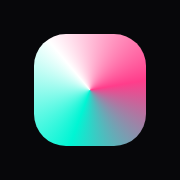
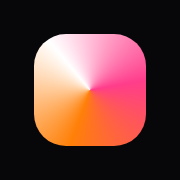
Dance mockup : mise à jour du prototype (OPT-1117)

Changed region(s): [[0.1667, 0.2778, 0.8333, 0.8333]]

diff --git a/s-p7b.html b/s-p7b.html
@@ -46,7 +46,7 @@ html.phoneboard .board { gap: 26px; padding: 6px 30px; }
 .track .seg { position: absolute; top: 9px; height: 4px; border-radius: 2px; background: rgba(255,255,255,.22); }
 .track .seg.on { background: rgba(255,255,255,.6); }
 .track .pin { position: absolute; top: 1px; width: 20px; height: 20px; margin-left: -10px; border-radius: 50%; background: var(--ref); display: grid; place-items: center; box-shadow: 0 0 0 2px #0b0b10; }
-.track .pin svg { width: 11px; height: 11px; fill: none; stroke: #00211C; stroke-width: 2.6; stroke-linecap: round; }
+.track .pin svg { width: 11px; height: 11px; fill: none; stroke: #121418; stroke-width: 2.6; stroke-linecap: round; }
 .track .pin.draw { background: #0b0b10; border: 2px solid var(--ref); }
 .track .pin.draw svg { stroke: var(--ref); }
 .track .ph { position: absolute; top: -3px; bottom: -3px; width: 2px; margin-left: -1px; background: #fff; border-radius: 1px; }
@@ -54,9 +54,9 @@ html.phoneboard .board { gap: 26px; padding: 6px 30px; }
 .ruler .legend8 { margin-top: 15px; }
 
 /* enregistrement en cours */
-.rec { position: absolute; left: 12px; right: 12px; z-index: 30; border-radius: 18px; padding: 10px 13px 11px; background: rgba(0,245,212,.1); border: 1px solid rgba(0,245,212,.4); }
+.rec { position: absolute; left: 12px; right: 12px; z-index: 30; border-radius: 18px; padding: 10px 13px 11px; background: rgba(255,128,8,.1); border: 1px solid rgba(255,128,8,.4); }
 .rec .r { display: flex; align-items: center; gap: 9px; font: 700 12px ui-monospace, Menlo, monospace; color: var(--ref); white-space: nowrap; }
-.rec .r::before { content: ""; width: 9px; height: 9px; border-radius: 50%; background: var(--ref); box-shadow: 0 0 0 4px rgba(0,245,212,.25); flex: none; }
+.rec .r::before { content: ""; width: 9px; height: 9px; border-radius: 50%; background: var(--ref); box-shadow: 0 0 0 4px rgba(255,128,8,.25); flex: none; }
 .rec .wave { flex: 1; display: flex; align-items: center; gap: 2px; height: 22px; overflow: hidden; }
 .rec .wave i { display: block; width: 3px; border-radius: 2px; flex: none; }
 .rec .wave i.past { background: var(--ref); } .rec .wave i.fut { background: rgba(255,255,255,.14); }
@@ -67,9 +67,9 @@ html.phoneboard .board { gap: 26px; padding: 6px 30px; }
 .hold { position: absolute; left: 12px; right: 12px; z-index: 30; display: flex; gap: 10px; }
 .hold .draw { width: 64px; height: 64px; border-radius: 32px; display: grid; place-items: center; flex: none; background: rgba(255,255,255,.1); font: 600 10.5px -apple-system, system-ui, sans-serif; color: #fff; }
 .hold .draw svg { width: 22px; height: 22px; fill: none; stroke: #fff; stroke-width: 1.9; stroke-linecap: round; stroke-linejoin: round; display: block; margin: 0 auto 1px; }
-.hold .mic { flex: 1; height: 64px; border-radius: 32px; background: var(--ref); color: #00211C; display: flex; align-items: center; gap: 12px; padding: 0 18px 0 8px;
-  box-shadow: 0 0 0 7px rgba(0,245,212,.16), 0 0 34px rgba(0,245,212,.45); }
-.hold .mic .ic { width: 48px; height: 48px; border-radius: 50%; background: #00211C; display: grid; place-items: center; flex: none; }
+.hold .mic { flex: 1; height: 64px; border-radius: 32px; background: var(--ref); color: #121418; display: flex; align-items: center; gap: 12px; padding: 0 18px 0 8px;
+  box-shadow: 0 0 0 7px rgba(255,128,8,.16), 0 0 34px rgba(255,128,8,.45); }
+.hold .mic .ic { width: 48px; height: 48px; border-radius: 50%; background: #121418; display: grid; place-items: center; flex: none; }
 .hold .mic .ic svg { width: 24px; height: 24px; fill: none; stroke: var(--ref); stroke-width: 2.1; stroke-linecap: round; }
 .hold .mic b { font: 750 15.5px -apple-system, system-ui, sans-serif; display: block; }
 .hold .mic small { font: 600 11.5px -apple-system, system-ui, sans-serif; opacity: .78; }
@@ -77,10 +77,10 @@ html.phoneboard .board { gap: 26px; padding: 6px 30px; }
 /* écran 2 : relire */
 .items { position: absolute; left: 12px; right: 12px; z-index: 30; }
 .items h5, .acts h5 { font: 650 10.5px ui-monospace, Menlo, monospace; letter-spacing: .1em; text-transform: uppercase; color: var(--t2); margin: 0 4px 6px; display: flex; justify-content: space-between; }
-.it { display: flex; align-items: flex-start; gap: 9px; padding: 8px 10px 8px 8px; border-radius: 16px; background: rgba(0,245,212,.07); margin-bottom: 5px; }
+.it { display: flex; align-items: flex-start; gap: 9px; padding: 8px 10px 8px 8px; border-radius: 16px; background: rgba(255,128,8,.07); margin-bottom: 5px; }
 .it .at { font: 700 11px ui-monospace, Menlo, monospace; color: var(--ref); width: 34px; flex: none; padding-top: 9px; }
 .it .play { width: 30px; height: 30px; border-radius: 50%; background: var(--ref); display: grid; place-items: center; flex: none; }
-.it .play::after { content: ""; border-left: 10px solid #00211C; border-top: 6px solid transparent; border-bottom: 6px solid transparent; margin-left: 3px; }
+.it .play::after { content: ""; border-left: 10px solid #121418; border-top: 6px solid transparent; border-bottom: 6px solid transparent; margin-left: 3px; }
 .it .pen { width: 30px; height: 30px; border-radius: 50%; border: 2px solid var(--ref); display: grid; place-items: center; flex: none; }
 .it .pen svg { width: 14px; height: 14px; fill: none; stroke: var(--ref); stroke-width: 2.2; stroke-linecap: round; stroke-linejoin: round; }
 .it .tx { flex: 1; font: 500 12.5px/1.32 -apple-system, system-ui, sans-serif; color: #fff; min-width: 0; }
@@ -116,8 +116,8 @@ html.phoneboard .board { gap: 26px; padding: 6px 30px; }
       <div class="seg" style="left:30%;width:10.5%"></div><div class="seg" style="left:42%;width:10.5%"></div>
       <div class="seg on" style="left:54%;width:10.5%"></div><div class="seg" style="left:66%;width:10.5%"></div>
       <div class="seg" style="left:78%;width:10.5%"></div><div class="seg" style="left:90%;width:10%"></div>
-      <div class="pin" style="left:23.5%"><svg viewBox="0 0 12 12"><rect x="4.4" y="1.2" width="3.2" height="5.6" rx="1.6" fill="#00211C" stroke="none"/><path d="M2.8 5.6a3.2 3.2 0 006.4 0M6 8.8v1.8"/></svg></div>
-      <div class="pin" style="left:61.8%"><svg viewBox="0 0 12 12"><rect x="4.4" y="1.2" width="3.2" height="5.6" rx="1.6" fill="#00211C" stroke="none"/><path d="M2.8 5.6a3.2 3.2 0 006.4 0M6 8.8v1.8"/></svg></div>
+      <div class="pin" style="left:23.5%"><svg viewBox="0 0 12 12"><rect x="4.4" y="1.2" width="3.2" height="5.6" rx="1.6" fill="#121418" stroke="none"/><path d="M2.8 5.6a3.2 3.2 0 006.4 0M6 8.8v1.8"/></svg></div>
+      <div class="pin" style="left:61.8%"><svg viewBox="0 0 12 12"><rect x="4.4" y="1.2" width="3.2" height="5.6" rx="1.6" fill="#121418" stroke="none"/><path d="M2.8 5.6a3.2 3.2 0 006.4 0M6 8.8v1.8"/></svg></div>
       <div class="ph" style="left:61.8%"></div>
     </div>
   </div>
@@ -145,7 +145,7 @@ html.phoneboard .board { gap: 26px; padding: 6px 30px; }
   <div class="tabbar glass">
     <div class="t"><svg viewBox="0 0 24 24"><path d="M12 3v2M12 19v2M3 12h2M19 12h2"/><circle cx="12" cy="12" r="5"/></svg>Aujourd'hui</div>
     <div class="t" style="position:relative"><svg viewBox="0 0 24 24"><path d="M4 13l2.5-8h11L20 13v6H4z"/><path d="M4 13h5l1 2h4l1-2h5"/></svg>Boîte<span style="position:absolute;top:-4px;right:2px;min-width:16px;height:16px;border-radius:8px;background:#fff;color:#000;font:800 10px -apple-system, system-ui, sans-serif;display:grid;place-items:center;padding:0 4px">3</span></div>
-    <div class="t on"><span style="width:52px;height:52px;margin-top:-30px;border-radius:50%;background:var(--ref);display:grid;place-items:center;box-shadow:0 8px 24px -6px rgba(0,245,212,.6)"><svg viewBox="0 0 24 24" style="stroke:#00211C;width:24px;height:24px"><rect x="9" y="3" width="6" height="11" rx="3"/><path d="M5 11a7 7 0 0014 0M12 18v3"/></svg></span>Corriger</div>
+    <div class="t on"><span style="width:52px;height:52px;margin-top:-30px;border-radius:50%;background:var(--ref);display:grid;place-items:center;box-shadow:0 8px 24px -6px rgba(255,128,8,.6)"><svg viewBox="0 0 24 24" style="stroke:#121418;width:24px;height:24px"><rect x="9" y="3" width="6" height="11" rx="3"/><path d="M5 11a7 7 0 0014 0M12 18v3"/></svg></span>Corriger</div>
     <div class="t"><svg viewBox="0 0 24 24"><circle cx="9" cy="8" r="3.5"/><path d="M2.5 20c.8-3.6 3.300-5.500 6.500-5.500s5.700 1.900 6.500 5.500"/><path d="M16 4.500a3.500 3.500 0 010 7M18 14.800c1.900.7 3.100 2.400 3.500 5.200"/></svg>Élèves</div>
     <div class="t"><svg viewBox="0 0 24 24"><path d="M4 4h4v16H4zM10 4h4v16h-4z"/><path d="M16 5l3.500-1 2.500 15.500-3.500 1z"/></svg>Mon cours</div>
   </div>

diff --git a/s-p7a.html b/s-p7a.html
@@ -46,7 +46,7 @@ html.phoneboard .board { gap: 26px; padding: 6px 30px; }
 .track .seg { position: absolute; top: 9px; height: 4px; border-radius: 2px; background: rgba(255,255,255,.22); }
 .track .seg.on { background: rgba(255,255,255,.6); }
 .track .pin { position: absolute; top: 1px; width: 20px; height: 20px; margin-left: -10px; border-radius: 50%; background: var(--ref); display: grid; place-items: center; box-shadow: 0 0 0 2px #0b0b10; }
-.track .pin svg { width: 11px; height: 11px; fill: none; stroke: #00211C; stroke-width: 2.6; stroke-linecap: round; }
+.track .pin svg { width: 11px; height: 11px; fill: none; stroke: #121418; stroke-width: 2.6; stroke-linecap: round; }
 .track .pin.draw { background: #0b0b10; border: 2px solid var(--ref); }
 .track .pin.draw svg { stroke: var(--ref); }
 .track .ph { position: absolute; top: -3px; bottom: -3px; width: 2px; margin-left: -1px; background: #fff; border-radius: 1px; }
@@ -54,9 +54,9 @@ html.phoneboard .board { gap: 26px; padding: 6px 30px; }
 .ruler .legend8 { margin-top: 15px; }
 
 /* enregistrement en cours */
-.rec { position: absolute; left: 12px; right: 12px; z-index: 30; border-radius: 18px; padding: 10px 13px 11px; background: rgba(0,245,212,.1); border: 1px solid rgba(0,245,212,.4); }
+.rec { position: absolute; left: 12px; right: 12px; z-index: 30; border-radius: 18px; padding: 10px 13px 11px; background: rgba(255,128,8,.1); border: 1px solid rgba(255,128,8,.4); }
 .rec .r { display: flex; align-items: center; gap: 9px; font: 700 12px ui-monospace, Menlo, monospace; color: var(--ref); white-space: nowrap; }
-.rec .r::before { content: ""; width: 9px; height: 9px; border-radius: 50%; background: var(--ref); box-shadow: 0 0 0 4px rgba(0,245,212,.25); flex: none; }
+.rec .r::before { content: ""; width: 9px; height: 9px; border-radius: 50%; background: var(--ref); box-shadow: 0 0 0 4px rgba(255,128,8,.25); flex: none; }
 .rec .wave { flex: 1; display: flex; align-items: center; gap: 2px; height: 22px; overflow: hidden; }
 .rec .wave i { display: block; width: 3px; border-radius: 2px; flex: none; }
 .rec .wave i.past { background: var(--ref); } .rec .wave i.fut { background: rgba(255,255,255,.14); }
@@ -67,9 +67,9 @@ html.phoneboard .board { gap: 26px; padding: 6px 30px; }
 .hold { position: absolute; left: 12px; right: 12px; z-index: 30; display: flex; gap: 10px; }
 .hold .draw { width: 64px; height: 64px; border-radius: 32px; display: grid; place-items: center; flex: none; background: rgba(255,255,255,.1); font: 600 10.5px -apple-system, system-ui, sans-serif; color: #fff; }
 .hold .draw svg { width: 22px; height: 22px; fill: none; stroke: #fff; stroke-width: 1.9; stroke-linecap: round; stroke-linejoin: round; display: block; margin: 0 auto 1px; }
-.hold .mic { flex: 1; height: 64px; border-radius: 32px; background: var(--ref); color: #00211C; display: flex; align-items: center; gap: 12px; padding: 0 18px 0 8px;
-  box-shadow: 0 0 0 7px rgba(0,245,212,.16), 0 0 34px rgba(0,245,212,.45); }
-.hold .mic .ic { width: 48px; height: 48px; border-radius: 50%; background: #00211C; display: grid; place-items: center; flex: none; }
+.hold .mic { flex: 1; height: 64px; border-radius: 32px; background: var(--ref); color: #121418; display: flex; align-items: center; gap: 12px; padding: 0 18px 0 8px;
+  box-shadow: 0 0 0 7px rgba(255,128,8,.16), 0 0 34px rgba(255,128,8,.45); }
+.hold .mic .ic { width: 48px; height: 48px; border-radius: 50%; background: #121418; display: grid; place-items: center; flex: none; }
 .hold .mic .ic svg { width: 24px; height: 24px; fill: none; stroke: var(--ref); stroke-width: 2.1; stroke-linecap: round; }
 .hold .mic b { font: 750 15.5px -apple-system, system-ui, sans-serif; display: block; }
 .hold .mic small { font: 600 11.5px -apple-system, system-ui, sans-serif; opacity: .78; }
@@ -77,10 +77,10 @@ html.phoneboard .board { gap: 26px; padding: 6px 30px; }
 /* écran 2 : relire */
 .items { position: absolute; left: 12px; right: 12px; z-index: 30; }
 .items h5, .acts h5 { font: 650 10.5px ui-monospace, Menlo, monospace; letter-spacing: .1em; text-transform: uppercase; color: var(--t2); margin: 0 4px 6px; display: flex; justify-content: space-between; }
-.it { display: flex; align-items: flex-start; gap: 9px; padding: 8px 10px 8px 8px; border-radius: 16px; background: rgba(0,245,212,.07); margin-bottom: 5px; }
+.it { display: flex; align-items: flex-start; gap: 9px; padding: 8px 10px 8px 8px; border-radius: 16px; background: rgba(255,128,8,.07); margin-bottom: 5px; }
 .it .at { font: 700 11px ui-monospace, Menlo, monospace; color: var(--ref); width: 34px; flex: none; padding-top: 9px; }
 .it .play { width: 30px; height: 30px; border-radius: 50%; background: var(--ref); display: grid; place-items: center; flex: none; }
-.it .play::after { content: ""; border-left: 10px solid #00211C; border-top: 6px solid transparent; border-bottom: 6px solid transparent; margin-left: 3px; }
+.it .play::after { content: ""; border-left: 10px solid #121418; border-top: 6px solid transparent; border-bottom: 6px solid transparent; margin-left: 3px; }
 .it .pen { width: 30px; height: 30px; border-radius: 50%; border: 2px solid var(--ref); display: grid; place-items: center; flex: none; }
 .it .pen svg { width: 14px; height: 14px; fill: none; stroke: var(--ref); stroke-width: 2.2; stroke-linecap: round; stroke-linejoin: round; }
 .it .tx { flex: 1; font: 500 12.5px/1.32 -apple-system, system-ui, sans-serif; color: #fff; min-width: 0; }
@@ -104,9 +104,9 @@ html.phoneboard .board { gap: 26px; padding: 6px 30px; }
 
   <!-- dessin de Mike, posé à 0:08 -->
   <svg class="ink" viewBox="0 0 390 844">
-    <ellipse cx="314" cy="290" rx="26" ry="24" fill="none" stroke="#00F5D4" stroke-width="3.2"/>
-    <path d="M288 274 C 270 250, 272 216, 292 196" fill="none" stroke="#00F5D4" stroke-width="3.2" stroke-linecap="round"/>
-    <path d="M280 200 L293 195 L295 209" fill="none" stroke="#00F5D4" stroke-width="3.2" stroke-linecap="round" stroke-linejoin="round"/>
+    <ellipse cx="314" cy="290" rx="26" ry="24" fill="none" stroke="#FF8008" stroke-width="3.2"/>
+    <path d="M288 274 C 270 250, 272 216, 292 196" fill="none" stroke="#FF8008" stroke-width="3.2" stroke-linecap="round"/>
+    <path d="M280 200 L293 195 L295 209" fill="none" stroke="#FF8008" stroke-width="3.2" stroke-linecap="round" stroke-linejoin="round"/>
   </svg>
   <div class="inklbl" style="left:190px; top:176px">plus haut !</div>
 
@@ -147,7 +147,7 @@ html.phoneboard .board { gap: 26px; padding: 6px 30px; }
   <div class="tabbar glass">
     <div class="t"><svg viewBox="0 0 24 24"><path d="M12 3v2M12 19v2M3 12h2M19 12h2"/><circle cx="12" cy="12" r="5"/></svg>Aujourd'hui</div>
     <div class="t" style="position:relative"><svg viewBox="0 0 24 24"><path d="M4 13l2.5-8h11L20 13v6H4z"/><path d="M4 13h5l1 2h4l1-2h5"/></svg>Boîte<span style="position:absolute;top:-4px;right:2px;min-width:16px;height:16px;border-radius:8px;background:#fff;color:#000;font:800 10px -apple-system, system-ui, sans-serif;display:grid;place-items:center;padding:0 4px">3</span></div>
-    <div class="t on"><span style="width:52px;height:52px;margin-top:-30px;border-radius:50%;background:var(--ref);display:grid;place-items:center;box-shadow:0 8px 24px -6px rgba(0,245,212,.6)"><svg viewBox="0 0 24 24" style="stroke:#00211C;width:24px;height:24px"><rect x="9" y="3" width="6" height="11" rx="3"/><path d="M5 11a7 7 0 0014 0M12 18v3"/></svg></span>Corriger</div>
+    <div class="t on"><span style="width:52px;height:52px;margin-top:-30px;border-radius:50%;background:var(--ref);display:grid;place-items:center;box-shadow:0 8px 24px -6px rgba(255,128,8,.6)"><svg viewBox="0 0 24 24" style="stroke:#121418;width:24px;height:24px"><rect x="9" y="3" width="6" height="11" rx="3"/><path d="M5 11a7 7 0 0014 0M12 18v3"/></svg></span>Corriger</div>
     <div class="t"><svg viewBox="0 0 24 24"><circle cx="9" cy="8" r="3.5"/><path d="M2.5 20c.8-3.6 3.300-5.500 6.500-5.500s5.700 1.900 6.500 5.500"/><path d="M16 4.500a3.500 3.500 0 010 7M18 14.800c1.900.7 3.100 2.400 3.500 5.200"/></svg>Élèves</div>
     <div class="t"><svg viewBox="0 0 24 24"><path d="M4 4h4v16H4zM10 4h4v16h-4z"/><path d="M16 5l3.500-1 2.500 15.500-3.500 1z"/></svg>Mon cours</div>
   </div>

diff --git a/dance.css b/dance.css
@@ -1,7 +1,7 @@
 /* ============================================================
    « Dance mockup » — système de design du parcours danse (OPT-1117 v4)
    Règles (voir BIBLE.md) :
-   1. Cyan = la prof (vidéo, voix, retours). Rose = l'élève (sa vidéo, son corps). Rien d'autre.
+   1. Orange du logo = le prof (vidéo, voix, retours). Rose = l'élève (sa vidéo, son corps). Rien d'autre.
    2. Action principale = blanc. Un état = une forme + un libellé (.state), jamais la couleur seule.
    3. La voix d'abord : un retour est un vocal posé sur un moment de la vidéo.
    4. Aucune IA en V1 : seulement la transcription et les résumés, marqués comme tels.
@@ -16,8 +16,8 @@
   --t1: #F5F5F7;
   --t2: #A1A1AA;
   --t3: #63636E;
-  --ref: #00F5D4;         /* le prof, la référence */
-  --ref-a: rgba(0,245,212,.16);
+  --ref: #FF8008;         /* le prof, la référence */
+  --ref-a: rgba(255,128,8,.16);
   --me: #FF3D8B;          /* moi, l'élève */
   --me-a: rgba(255,61,139,.16);
   --both: #FFFFFF;        /* accord */
@@ -62,7 +62,7 @@ html.deskboard .notes { max-width: 380px; }
 .notes .num { font: 600 13px ui-monospace, Menlo, monospace, Menlo, monospace; letter-spacing: .12em; color: #847D93; text-transform: uppercase; }
 .notes .num .lane { display: inline-block; padding: 3px 8px; border-radius: 6px; margin-right: 8px; color: #fff; letter-spacing: .08em; }
 .notes .num .lane.b2c { background: var(--me); }
-.notes .num .lane.b2b { background: #0A8F7E; }
+.notes .num .lane.b2b { background: #A5570E; }
 .notes h1 { font: 700 44px/1.02 "Avenir Next", -apple-system, system-ui, sans-serif, sans-serif; letter-spacing: -.02em; margin: 10px 0 8px; }
 html.deskboard .notes h1 { font-size: 36px; }
 .notes .screenname { font: 500 16.5px/1.4 -apple-system, system-ui, sans-serif; color: #5B5566; margin-bottom: 18px; }
@@ -96,7 +96,7 @@ html.deskboard .notes li { font-size: 14px; }
 .shot.mirror .art { transform: scaleX(-1); }
 .shot .veil { position: absolute; inset: 0; pointer-events: none; }
 .bone { fill: none; stroke-linecap: round; stroke-linejoin: round; }
-.ref-bone { stroke: var(--ref); stroke-width: 9; filter: drop-shadow(0 0 10px rgba(0,245,212,.7)); }
+.ref-bone { stroke: var(--ref); stroke-width: 9; filter: drop-shadow(0 0 10px rgba(255,128,8,.7)); }
 .me-bone { stroke: var(--me); stroke-width: 9; filter: drop-shadow(0 0 10px rgba(255,61,139,.7)); }
 .ghost-bone { stroke: var(--ref); stroke-width: 26; opacity: .35; filter: blur(2px); }
 .ai-mark { fill: none; stroke: var(--ai); stroke-width: 6; stroke-dasharray: 14 12; }
@@ -126,16 +126,16 @@ html.deskboard .notes li { font-size: 14px; }
 /* Boutons */
 .btn { display: inline-flex; align-items: center; justify-content: center; gap: 8px; height: 50px; padding: 0 22px; border-radius: 99px; font: 700 16px -apple-system, system-ui, sans-serif; border: 0; }
 .btn.primary { background: #fff; color: #000; }
-.btn.ref { background: var(--ref); color: #00211C; }
+.btn.ref { background: var(--ref); color: #121418; }
 .btn.me { background: var(--me); color: #fff; }
 .btn.ghost { background: rgba(255,255,255,.1); color: #fff; }
 
 /* Note vocale */
 .voice { display: flex; align-items: center; gap: 10px; padding: 9px 12px 9px 9px; border-radius: 22px; }
 .voice .play { width: 34px; height: 34px; border-radius: 50%; background: var(--ref); display: grid; place-items: center; flex: none; }
-.voice .play::after { content: ""; border-left: 11px solid #00211C; border-top: 7px solid transparent; border-bottom: 7px solid transparent; margin-left: 3px; }
+.voice .play::after { content: ""; border-left: 11px solid #121418; border-top: 7px solid transparent; border-bottom: 7px solid transparent; margin-left: 3px; }
 .voice .wave { flex: 1; display: flex; align-items: center; gap: 2px; height: 28px; }
-.voice .wave i { display: block; width: 3px; border-radius: 2px; background: rgba(0,245,212,.9); }
+.voice .wave i { display: block; width: 3px; border-radius: 2px; background: rgba(255,128,8,.9); }
 .voice .wave i.past { background: var(--ref); } .voice .wave i.fut { background: rgba(255,255,255,.3); }
 .voice .dur { font: 600 12px ui-monospace, Menlo, monospace; color: var(--t2); }
 .avatar { border-radius: 50%; background-size: cover; background-position: center; flex: none; }
@@ -161,7 +161,7 @@ html.deskboard .notes li { font-size: 14px; }
 .side .it { display: flex; align-items: center; gap: 10px; height: 32px; padding: 0 10px; border-radius: 8px; font: 550 13px -apple-system, system-ui, sans-serif; color: var(--t2); }
 .side .it.on { background: rgba(255,255,255,.07); color: #fff; }
 .side .it .k { margin-left: auto; font: 600 10.5px ui-monospace, Menlo, monospace; color: var(--t3); }
-.side .it .n { margin-left: auto; font: 700 11px ui-monospace, Menlo, monospace; color: #00211C; background: var(--ref); padding: 1px 6px; border-radius: 6px; }
+.side .it .n { margin-left: auto; font: 700 11px ui-monospace, Menlo, monospace; color: #121418; background: var(--ref); padding: 1px 6px; border-radius: 6px; }
 .side .sec { font: 650 10.5px ui-monospace, Menlo, monospace; letter-spacing: .1em; color: var(--t3); text-transform: uppercase; padding: 16px 10px 6px; }
 .kbd { display: inline-grid; place-items: center; min-width: 20px; height: 20px; padding: 0 5px; border-radius: 5px; font: 650 11px ui-monospace, Menlo, monospace; color: var(--t2); background: rgba(255,255,255,.07); border: 1px solid rgba(255,255,255,.1); }
 

diff --git a/lotb.css b/lotb.css
@@ -14,7 +14,7 @@ html.duo .notes .flow { font-size: 12px; margin-top: 8px; }
 .top small { font: 500 13px -apple-system, system-ui, sans-serif; color: var(--t2); }
 .top .end { margin-left: auto; }
 .top .avatar { width: 32px; height: 32px; font-size: 11px; }
-.av-ref { background: var(--ref); color: #00211C; }
+.av-ref { background: var(--ref); color: #121418; }
 
 .blk { position: absolute; left: 14px; right: 14px; }
 .h { font: 800 27px/1.12 -apple-system, system-ui, sans-serif; letter-spacing: -.02em; }
@@ -47,7 +47,7 @@ html.duo .notes .flow { font-size: 12px; margin-top: 8px; }
 .th .art { left: -100px; top: -4px; width: 260px; height: 173px; }
 .th .tg { position: absolute; left: 4px; bottom: 4px; font: 800 8.5px ui-monospace, Menlo, monospace; padding: 2px 4px; border-radius: 4px; z-index: 3; }
 .tg.me { background: var(--me); color: #fff; }
-.tg.ref { background: var(--ref); color: #00211C; }
+.tg.ref { background: var(--ref); color: #121418; }
 .th.me { box-shadow: inset 0 0 0 2px var(--me); }
 .th.ref { box-shadow: inset 0 0 0 2px var(--ref); }
 
@@ -65,13 +65,13 @@ html.duo .notes .flow { font-size: 12px; margin-top: 8px; }
 .edge { position: absolute; top: 104px; height: 290px; width: 3px; z-index: 6; }
 .edge.l { left: 0; background: var(--ref); } .edge.r { right: 0; background: var(--me); }
 .tag { position: absolute; top: 114px; z-index: 10; font: 800 11px ui-monospace, Menlo, monospace; letter-spacing: .06em; padding: 4px 8px; border-radius: 7px; }
-.tag.l { left: 10px; background: var(--ref); color: #00211C; }
+.tag.l { left: 10px; background: var(--ref); color: #121418; }
 .tag.r { right: 10px; background: var(--me); color: #fff; }
 
 /* Micro tenu (prof) */
 .hold { position: absolute; left: 0; right: 0; top: 664px; display: flex; flex-direction: column; align-items: center; gap: 8px; }
-.hold .mic { width: 84px; height: 84px; border-radius: 50%; background: var(--ref); display: grid; place-items: center; box-shadow: 0 0 0 10px rgba(0,245,212,.14), 0 0 0 22px rgba(0,245,212,.06); }
-.hold .mic svg { width: 34px; height: 34px; fill: none; stroke: #00211C; stroke-width: 2; stroke-linecap: round; }
+.hold .mic { width: 84px; height: 84px; border-radius: 50%; background: var(--ref); display: grid; place-items: center; box-shadow: 0 0 0 10px rgba(255,128,8,.14), 0 0 0 22px rgba(255,128,8,.06); }
+.hold .mic svg { width: 34px; height: 34px; fill: none; stroke: #121418; stroke-width: 2; stroke-linecap: round; }
 .hold span { font: 600 12.5px -apple-system, system-ui, sans-serif; color: var(--t2); }
 .bubble { border-radius: 18px; background: var(--s1); border: 1px solid var(--line); padding: 10px 12px; }
 .bubble .who { font: 650 11.5px -apple-system, system-ui, sans-serif; color: var(--t2); display: flex; gap: 8px; align-items: center; margin-bottom: 6px; }

diff --git a/s-e8.html b/s-e8.html
@@ -35,7 +35,7 @@
 
 .body { position: absolute; left: 0; right: 0; top: 386px; bottom: 0; padding: 0 12px; }
 .from { display: flex; align-items: center; gap: 9px; padding: 0 4px; }
-.from .avatar { width: 32px; height: 32px; background: var(--ref); color: #00211C; font-size: 11px; }
+.from .avatar { width: 32px; height: 32px; background: var(--ref); color: #121418; font-size: 11px; }
 .from .who { font: 700 14px -apple-system, system-ui, sans-serif; line-height: 1.15; }
 .from .who small { display: block; font: 500 11px -apple-system, system-ui, sans-serif; color: var(--t2); }
 .from .state { margin-left: auto; }
@@ -52,7 +52,7 @@
 .pvid .shot .art { left: -66px; top: -16px; width: 190px; height: 127px; }
 .pvid .shot .play { position: absolute; inset: 0; display: grid; place-items: center; z-index: 3; }
 .pvid .shot .play::after { content: ""; border-left: 11px solid #fff; border-top: 7px solid transparent; border-bottom: 7px solid transparent; margin-left: 3px; filter: drop-shadow(0 1px 3px rgba(0,0,0,.6)); }
-.pvid .shot .nora { position: absolute; left: 3px; top: 3px; z-index: 3; font: 800 8px ui-monospace, Menlo, monospace; letter-spacing: .06em; color: #00211C; background: var(--ref); padding: 1px 4px; border-radius: 4px; }
+.pvid .shot .nora { position: absolute; left: 3px; top: 3px; z-index: 3; font: 800 8px ui-monospace, Menlo, monospace; letter-spacing: .06em; color: #121418; background: var(--ref); padding: 1px 4px; border-radius: 4px; }
 .pvid .m { flex: 1; min-width: 0; }
 .pvid .m b { display: block; font: 650 13px -apple-system, system-ui, sans-serif; }
 .pvid .m span { font: 500 11px -apple-system, system-ui, sans-serif; color: var(--t2); }
@@ -76,9 +76,9 @@
 
   <!-- le dessin de Mike sur l'image à 0:08 -->
   <svg class="draw" viewBox="0 0 390 276">
-    <path d="M78 168 C 74 144, 104 136, 126 148 C 144 158, 140 186, 118 194 C 96 202, 72 192, 74 172" fill="none" stroke="#00F5D4" stroke-width="3.5" stroke-linecap="round"/>
-    <path d="M100 140 C 103 128, 103 118, 100 110" fill="none" stroke="#00F5D4" stroke-width="3.5" stroke-linecap="round"/>
-    <path d="M91 119 L 100 108 L 109 119" fill="none" stroke="#00F5D4" stroke-width="3.5" stroke-linecap="round" stroke-linejoin="round"/>
+    <path d="M78 168 C 74 144, 104 136, 126 148 C 144 158, 140 186, 118 194 C 96 202, 72 192, 74 172" fill="none" stroke="#FF8008" stroke-width="3.5" stroke-linecap="round"/>
+    <path d="M100 140 C 103 128, 103 118, 100 110" fill="none" stroke="#FF8008" stroke-width="3.5" stroke-linecap="round"/>
+    <path d="M91 119 L 100 108 L 109 119" fill="none" stroke="#FF8008" stroke-width="3.5" stroke-linecap="round" stroke-linejoin="round"/>
   </svg>
   <div class="hand" style="left:112px; top:100px">plus haut !</div>
 

diff --git a/s-p3.html b/s-p3.html
@@ -4,7 +4,7 @@
 .hd { position: absolute; top: 62px; left: 22px; right: 18px; display: flex; align-items: flex-start; }
 .hd .d { font: 650 11.5px ui-monospace, Menlo, monospace; letter-spacing: .1em; color: var(--t2); text-transform: uppercase; }
 .hd h2 { font: 800 31px/1.05 -apple-system, system-ui, sans-serif; letter-spacing: -.03em; margin-top: 5px; }
-.hd .avatar { margin-left: auto; width: 40px; height: 40px; font-size: 13px; background: var(--ref); color: #00211C; margin-top: 4px; }
+.hd .avatar { margin-left: auto; width: 40px; height: 40px; font-size: 13px; background: var(--ref); color: #121418; margin-top: 4px; }
 .empty { position: absolute; top: 150px; left: 14px; right: 14px; border-radius: 28px; background: var(--s1); border: 1px solid var(--line); padding: 22px 20px 20px; }
 .empty .ic { width: 52px; height: 52px; border-radius: 16px; background: rgba(255,255,255,.06); display: grid; place-items: center; }
 .empty .ic svg { width: 28px; height: 28px; fill: none; stroke: var(--t2); stroke-width: 1.7; stroke-linejoin: round; stroke-linecap: round; }
@@ -56,7 +56,7 @@
   <div class="tabbar glass">
     <div class="t on"><span class="pill"><svg viewBox="0 0 24 24"><path d="M12 3v2M12 19v2M3 12h2M19 12h2"/><circle cx="12" cy="12" r="5"/></svg></span>Aujourd'hui</div>
     <div class="t" style="position:relative"><svg viewBox="0 0 24 24"><path d="M4 13l2.5-8h11L20 13v6H4z"/><path d="M4 13h5l1 2h4l1-2h5"/></svg>Boîte</div>
-    <div class="t"><span style="width:52px;height:52px;margin-top:-30px;border-radius:50%;background:var(--ref);display:grid;place-items:center;box-shadow:0 8px 24px -6px rgba(0,245,212,.6)"><svg viewBox="0 0 24 24" style="stroke:#00211C;width:24px;height:24px"><rect x="9" y="3" width="6" height="11" rx="3"/><path d="M5 11a7 7 0 0014 0M12 18v3"/></svg></span>Corriger</div>
+    <div class="t"><span style="width:52px;height:52px;margin-top:-30px;border-radius:50%;background:var(--ref);display:grid;place-items:center;box-shadow:0 8px 24px -6px rgba(255,128,8,.6)"><svg viewBox="0 0 24 24" style="stroke:#121418;width:24px;height:24px"><rect x="9" y="3" width="6" height="11" rx="3"/><path d="M5 11a7 7 0 0014 0M12 18v3"/></svg></span>Corriger</div>
     <div class="t"><svg viewBox="0 0 24 24"><circle cx="9" cy="8" r="3.5"/><path d="M2.5 20c.8-3.6 3.300-5.500 6.500-5.500s5.700 1.900 6.500 5.500"/><path d="M16 4.500a3.500 3.500 0 010 7M18 14.800c1.900.7 3.100 2.400 3.500 5.200"/></svg>Élèves</div>
     <div class="t"><svg viewBox="0 0 24 24"><path d="M4 4h4v16H4zM10 4h4v16h-4z"/><path d="M16 5l3.500-1 2.500 15.500-3.500 1z"/></svg>Mon cours</div>
   </div>

diff --git a/s-p6.html b/s-p6.html
@@ -6,7 +6,7 @@
 .hd h2 { font: 800 31px/1.05 -apple-system, system-ui, sans-serif; letter-spacing: -.03em; margin-top: 5px; }
 .hd p { white-space: nowrap; font: 500 14px/1.4 -apple-system, system-ui, sans-serif; color: var(--t2); margin-top: 6px; }
 .hd p b { color: var(--t1); font-weight: 650; }
-.hd .avatar { margin-left: auto; width: 40px; height: 40px; font-size: 13px; background: var(--ref); color: #00211C; margin-top: 4px; }
+.hd .avatar { margin-left: auto; width: 40px; height: 40px; font-size: 13px; background: var(--ref); color: #121418; margin-top: 4px; }
 .cd { position: absolute; left: 12px; right: 12px; border-radius: 26px; background: var(--s1); border: 1px solid var(--line); padding: 14px; }
 .who { display: flex; align-items: center; gap: 9px; }
 .who .avatar { width: 30px; height: 30px; font-size: 11px; }
@@ -73,7 +73,7 @@
   <div class="tabbar glass">
     <div class="t on"><span class="pill"><svg viewBox="0 0 24 24"><path d="M12 3v2M12 19v2M3 12h2M19 12h2"/><circle cx="12" cy="12" r="5"/></svg></span>Aujourd'hui</div>
     <div class="t" style="position:relative"><svg viewBox="0 0 24 24"><path d="M4 13l2.5-8h11L20 13v6H4z"/><path d="M4 13h5l1 2h4l1-2h5"/></svg>Boîte<span style="position:absolute;top:-4px;right:2px;min-width:16px;height:16px;border-radius:8px;background:#fff;color:#000;font:800 10px -apple-system, system-ui, sans-serif;display:grid;place-items:center;padding:0 4px">3</span></div>
-    <div class="t"><span style="width:52px;height:52px;margin-top:-30px;border-radius:50%;background:var(--ref);display:grid;place-items:center;box-shadow:0 8px 24px -6px rgba(0,245,212,.6)"><svg viewBox="0 0 24 24" style="stroke:#00211C;width:24px;height:24px"><rect x="9" y="3" width="6" height="11" rx="3"/><path d="M5 11a7 7 0 0014 0M12 18v3"/></svg></span>Corriger</div>
+    <div class="t"><span style="width:52px;height:52px;margin-top:-30px;border-radius:50%;background:var(--ref);display:grid;place-items:center;box-shadow:0 8px 24px -6px rgba(255,128,8,.6)"><svg viewBox="0 0 24 24" style="stroke:#121418;width:24px;height:24px"><rect x="9" y="3" width="6" height="11" rx="3"/><path d="M5 11a7 7 0 0014 0M12 18v3"/></svg></span>Corriger</div>
     <div class="t"><svg viewBox="0 0 24 24"><circle cx="9" cy="8" r="3.5"/><path d="M2.5 20c.8-3.6 3.300-5.500 6.500-5.500s5.700 1.900 6.500 5.500"/><path d="M16 4.500a3.500 3.500 0 010 7M18 14.800c1.900.7 3.100 2.400 3.500 5.200"/></svg>Élèves</div>
     <div class="t"><svg viewBox="0 0 24 24"><path d="M4 4h4v16H4zM10 4h4v16h-4z"/><path d="M16 5l3.500-1 2.500 15.500-3.500 1z"/></svg>Mon cours</div>
   </div>

diff --git a/s-e4.html b/s-e4.html
@@ -10,15 +10,15 @@
 .topbar .ttl { flex: 1; min-width: 0; height: 40px; border-radius: 20px; display: flex; align-items: center; gap: 8px; padding: 0 14px; font: 700 14.5px -apple-system, system-ui, sans-serif; white-space: nowrap; }
 .topbar .ttl small { font: 500 12px -apple-system, system-ui, sans-serif; color: rgba(255,255,255,.7); }
 .who { position: absolute; top: 110px; left: 16px; right: 70px; display: flex; align-items: center; gap: 9px; padding: 6px 12px 6px 6px; border-radius: 20px; z-index: 20; }
-.who .avatar { width: 30px; height: 30px; background: var(--ref); color: #00211C; font-size: 10.5px; }
+.who .avatar { width: 30px; height: 30px; background: var(--ref); color: #121418; font-size: 10.5px; }
 .who b { display: block; font: 700 12.5px -apple-system, system-ui, sans-serif; }
 .who .s { display: block; font: 500 11px -apple-system, system-ui, sans-serif; color: rgba(255,255,255,.78); margin-top: 1px; }
 .who .code { font-size: 10px; }
-.nl { position: absolute; top: 116px; right: 16px; z-index: 20; font: 800 10.5px ui-monospace, Menlo, monospace; letter-spacing: .08em; color: #00211C; background: var(--ref); padding: 4px 7px; border-radius: 6px; }
+.nl { position: absolute; top: 116px; right: 16px; z-index: 20; font: 800 10.5px ui-monospace, Menlo, monospace; letter-spacing: .08em; color: #121418; background: var(--ref); padding: 4px 7px; border-radius: 6px; }
 .tip { position: absolute; left: 150px; top: 452px; width: 214px; padding: 10px 12px; border-radius: 18px; z-index: 20; font: 500 13px/1.35 -apple-system, system-ui, sans-serif; }
 .tip .at { display: flex; align-items: center; gap: 6px; font: 700 11px ui-monospace, Menlo, monospace; color: var(--ref); margin-bottom: 4px; }
 .tip .at i { width: 16px; height: 16px; border-radius: 50%; background: var(--ref); display: grid; place-items: center; }
-.tip .at i::after { content: ""; border-left: 6px solid #00211C; border-top: 4px solid transparent; border-bottom: 4px solid transparent; margin-left: 2px; }
+.tip .at i::after { content: ""; border-left: 6px solid #121418; border-top: 4px solid transparent; border-bottom: 4px solid transparent; margin-left: 2px; }
 .tip::before { content: ""; position: absolute; left: -36px; top: 20px; width: 36px; height: 2px; background: var(--ref); }
 .panel { position: absolute; left: 12px; right: 12px; bottom: 22px; border-radius: 30px; padding: 13px 14px 14px; z-index: 30; }
 .panel .row1 { display: flex; justify-content: space-between; align-items: center; font: 650 12px -apple-system, system-ui, sans-serif; color: rgba(255,255,255,.78); }

diff --git a/s-e1.html b/s-e1.html
@@ -10,12 +10,12 @@
 .brandbar .mute { width: 34px; height: 34px; border-radius: 50%; display: grid; place-items: center; }
 .brandbar .mute svg { width: 16px; height: 16px; fill: none; stroke: #fff; stroke-width: 1.8; stroke-linecap: round; stroke-linejoin: round; }
 .vlabel { position: absolute; top: 312px; left: 22px; z-index: 20; display: flex; align-items: center; gap: 8px; }
-.vlabel .tag { height: 24px; padding: 0 9px; border-radius: 7px; background: var(--ref); color: #00211C; font: 800 11px ui-monospace, Menlo, monospace; letter-spacing: .1em; display: grid; place-items: center; }
+.vlabel .tag { height: 24px; padding: 0 9px; border-radius: 7px; background: var(--ref); color: #121418; font: 800 11px ui-monospace, Menlo, monospace; letter-spacing: .1em; display: grid; place-items: center; }
 .vlabel span { font: 600 12px -apple-system, system-ui, sans-serif; color: rgba(255,255,255,.85); text-shadow: 0 1px 8px rgba(0,0,0,.6); }
 .vprog { position: absolute; top: 346px; left: 22px; right: 22px; height: 3px; border-radius: 2px; background: rgba(255,255,255,.18); z-index: 20; }
 .vprog i { display: block; width: 38%; height: 100%; border-radius: 2px; background: var(--ref); }
 .inv { position: absolute; top: 372px; left: 22px; right: 22px; z-index: 20; display: flex; align-items: center; gap: 11px; }
-.inv .avatar { width: 40px; height: 40px; font-size: 12.5px; background: var(--ref); color: #00211C; }
+.inv .avatar { width: 40px; height: 40px; font-size: 12.5px; background: var(--ref); color: #121418; }
 .inv .t { font: 500 12.5px/1.3 -apple-system, system-ui, sans-serif; color: var(--t2); }
 .inv .t b { display: block; color: #fff; font: 700 15px -apple-system, system-ui, sans-serif; margin-bottom: 1px; }
 h2.title { position: absolute; top: 424px; left: 22px; right: 22px; z-index: 20; font: 800 38px/1.02 -apple-system, system-ui, sans-serif; letter-spacing: -.035em; }

diff --git a/s-p10.html b/s-p10.html
@@ -24,7 +24,7 @@
   <div class="tabbar glass">
     <div class="t"><svg viewBox="0 0 24 24"><path d="M12 3v2M12 19v2M3 12h2M19 12h2"/><circle cx="12" cy="12" r="5"/></svg>Aujourd'hui</div>
     <div class="t" style="position:relative"><svg viewBox="0 0 24 24"><path d="M4 13l2.5-8h11L20 13v6H4z"/><path d="M4 13h5l1 2h4l1-2h5"/></svg>Boîte<span style="position:absolute;top:-4px;right:2px;min-width:16px;height:16px;border-radius:8px;background:#fff;color:#000;font:800 10px -apple-system, system-ui, sans-serif;display:grid;place-items:center;padding:0 4px">3</span></div>
-    <div class="t"><span style="width:52px;height:52px;margin-top:-30px;border-radius:50%;background:var(--ref);display:grid;place-items:center;box-shadow:0 8px 24px -6px rgba(0,245,212,.6)"><svg viewBox="0 0 24 24" style="stroke:#00211C;width:24px;height:24px"><rect x="9" y="3" width="6" height="11" rx="3"/><path d="M5 11a7 7 0 0014 0M12 18v3"/></svg></span>Corriger</div>
+    <div class="t"><span style="width:52px;height:52px;margin-top:-30px;border-radius:50%;background:var(--ref);display:grid;place-items:center;box-shadow:0 8px 24px -6px rgba(255,128,8,.6)"><svg viewBox="0 0 24 24" style="stroke:#121418;width:24px;height:24px"><rect x="9" y="3" width="6" height="11" rx="3"/><path d="M5 11a7 7 0 0014 0M12 18v3"/></svg></span>Corriger</div>
     <div class="t on"><span class="pill"><svg viewBox="0 0 24 24"><circle cx="9" cy="8" r="3.5"/><path d="M2.5 20c.8-3.6 3.300-5.500 6.500-5.500s5.700 1.900 6.500 5.500"/><path d="M16 4.500a3.500 3.500 0 010 7M18 14.800c1.900.7 3.100 2.400 3.500 5.200"/></svg></span>Élèves</div>
     <div class="t"><svg viewBox="0 0 24 24"><path d="M4 4h4v16H4zM10 4h4v16h-4z"/><path d="M16 5l3.500-1 2.500 15.500-3.500 1z"/></svg>Mon cours</div>
   </div>

diff --git a/s-p8a.html b/s-p8a.html
@@ -13,7 +13,7 @@
   <div class="tabbar glass">
     <div class="t"><svg viewBox="0 0 24 24"><path d="M12 3v2M12 19v2M3 12h2M19 12h2"/><circle cx="12" cy="12" r="5"/></svg>Aujourd'hui</div>
     <div class="t" style="position:relative"><svg viewBox="0 0 24 24"><path d="M4 13l2.5-8h11L20 13v6H4z"/><path d="M4 13h5l1 2h4l1-2h5"/></svg>Boîte<span style="position:absolute;top:-4px;right:2px;min-width:16px;height:16px;border-radius:8px;background:#fff;color:#000;font:800 10px -apple-system, system-ui, sans-serif;display:grid;place-items:center;padding:0 4px">3</span></div>
-    <div class="t"><span style="width:52px;height:52px;margin-top:-30px;border-radius:50%;background:var(--ref);display:grid;place-items:center;box-shadow:0 8px 24px -6px rgba(0,245,212,.6)"><svg viewBox="0 0 24 24" style="stroke:#00211C;width:24px;height:24px"><rect x="9" y="3" width="6" height="11" rx="3"/><path d="M5 11a7 7 0 0014 0M12 18v3"/></svg></span>Corriger</div>
+    <div class="t"><span style="width:52px;height:52px;margin-top:-30px;border-radius:50%;background:var(--ref);display:grid;place-items:center;box-shadow:0 8px 24px -6px rgba(255,128,8,.6)"><svg viewBox="0 0 24 24" style="stroke:#121418;width:24px;height:24px"><rect x="9" y="3" width="6" height="11" rx="3"/><path d="M5 11a7 7 0 0014 0M12 18v3"/></svg></span>Corriger</div>
     <div class="t"><svg viewBox="0 0 24 24"><circle cx="9" cy="8" r="3.5"/><path d="M2.5 20c.8-3.6 3.300-5.500 6.500-5.500s5.700 1.900 6.500 5.500"/><path d="M16 4.500a3.500 3.500 0 010 7M18 14.800c1.900.7 3.100 2.400 3.500 5.200"/></svg>Élèves</div>
     <div class="t on"><span class="pill"><svg viewBox="0 0 24 24"><path d="M4 4h4v16H4zM10 4h4v16h-4z"/><path d="M16 5l3.500-1 2.500 15.500-3.500 1z"/></svg></span>Mon cours</div>
   </div>

diff --git a/s-p8b.html b/s-p8b.html
@@ -19,7 +19,7 @@
   <div class="tabbar glass">
     <div class="t"><svg viewBox="0 0 24 24"><path d="M12 3v2M12 19v2M3 12h2M19 12h2"/><circle cx="12" cy="12" r="5"/></svg>Aujourd'hui</div>
     <div class="t" style="position:relative"><svg viewBox="0 0 24 24"><path d="M4 13l2.5-8h11L20 13v6H4z"/><path d="M4 13h5l1 2h4l1-2h5"/></svg>Boîte<span style="position:absolute;top:-4px;right:2px;min-width:16px;height:16px;border-radius:8px;background:#fff;color:#000;font:800 10px -apple-system, system-ui, sans-serif;display:grid;place-items:center;padding:0 4px">3</span></div>
-    <div class="t"><span style="width:52px;height:52px;margin-top:-30px;border-radius:50%;background:var(--ref);display:grid;place-items:center;box-shadow:0 8px 24px -6px rgba(0,245,212,.6)"><svg viewBox="0 0 24 24" style="stroke:#00211C;width:24px;height:24px"><rect x="9" y="3" width="6" height="11" rx="3"/><path d="M5 11a7 7 0 0014 0M12 18v3"/></svg></span>Corriger</div>
+    <div class="t"><span style="width:52px;height:52px;margin-top:-30px;border-radius:50%;background:var(--ref);display:grid;place-items:center;box-shadow:0 8px 24px -6px rgba(255,128,8,.6)"><svg viewBox="0 0 24 24" style="stroke:#121418;width:24px;height:24px"><rect x="9" y="3" width="6" height="11" rx="3"/><path d="M5 11a7 7 0 0014 0M12 18v3"/></svg></span>Corriger</div>
     <div class="t"><svg viewBox="0 0 24 24"><circle cx="9" cy="8" r="3.5"/><path d="M2.5 20c.8-3.6 3.300-5.500 6.500-5.500s5.700 1.900 6.500 5.500"/><path d="M16 4.500a3.500 3.500 0 010 7M18 14.800c1.900.7 3.100 2.400 3.500 5.200"/></svg>Élèves</div>
     <div class="t on"><span class="pill"><svg viewBox="0 0 24 24"><path d="M4 4h4v16H4zM10 4h4v16h-4z"/><path d="M16 5l3.500-1 2.500 15.500-3.500 1z"/></svg></span>Mon cours</div>
   </div>
